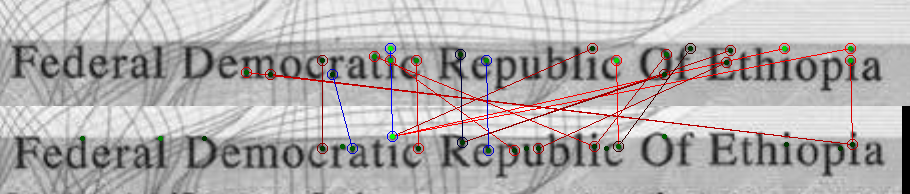
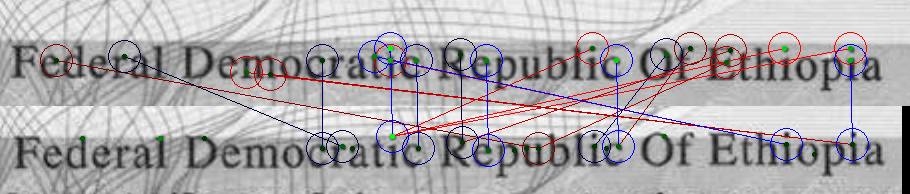
fix: enhance generic fm script

diff --git a/scripts/featureMatching/featureMatchingTest.ts b/scripts/featureMatching/featureMatchingTest.ts
@@ -12,7 +12,7 @@ import {
   getBestKeypointsInRadius,
 } from '../../src/featureMatching';
 import { ImageColorModel, readSync, writeSync } from '../../src';
-import { getBrief } from './getBrief';
+import { getBrief, GetBriefOptions } from './getBrief';
 import { GetColorsOptions } from '../../src/featureMatching/utils/getColors';
 import { getMinMax } from '../../src/utils/getMinMax';
 
@@ -20,14 +20,15 @@ import util from 'util';
 import { sliceBrief } from './sliceBrief';
 util.inspect.defaultOptions.depth = 5;
 
-const getBriefOptions = {
-  windowSize: 31,
+const getBriefOptions: GetBriefOptions = {
+  centroidPatchDiameter: 31,
   bestKptRadius: 5,
 };
 
 let source = readSync('../../test/img/featureMatching/crop1.png').convertColor(
   ImageColorModel.GREY,
 );
+// fix contrast
 const sourceExtremums = getMinMax(source);
 source.level({
   inputMin: sourceExtremums.min[0],
@@ -38,6 +39,7 @@ source.level({
 let destination = readSync(
   '../../test/img/featureMatching/crop3.png',
 ).convertColor(ImageColorModel.GREY);
+// fix contrast
 const destinationExtremums = getMinMax(destination);
 destination.level({
   inputMin: destinationExtremums.min[0],
@@ -104,6 +106,7 @@ montage.drawMatches(
   {
     showDistance: true,
     color: [255, 0, 0],
+    circleDiameter: getBriefOptions.centroidPatchDiameter,
     showDistanceOptions,
   },
 );
@@ -115,6 +118,7 @@ montage.drawMatches(
   {
     showDistance: true,
     color: [0, 0, 255],
+    circleDiameter: getBriefOptions.centroidPatchDiameter,
     showDistanceOptions,
   },
 );

diff --git a/scripts/featureMatching/getBrief.ts b/scripts/featureMatching/getBrief.ts
@@ -7,7 +7,7 @@ import {
 import { getOrientedFastKeypoints } from '../../src/featureMatching/keypoints/getOrientedFastKeypoints';
 
 export interface GetBriefOptions {
-  windowSize?: number;
+  centroidPatchDiameter?: number;
   bestKptRadius?: number;
   minScore?: number;
 }
@@ -21,9 +21,9 @@ export interface GetBriefOptions {
  * @returns The Brief.
  */
 export function getBrief(image: Image, options: GetBriefOptions = {}): Brief {
-  const { windowSize = 15, bestKptRadius = 10, minScore } = options;
+  const { centroidPatchDiameter = 15, bestKptRadius = 10, minScore } = options;
   const allSourceKeypoints = getOrientedFastKeypoints(image, {
-    windowSize,
+    centroidPatchDiameter,
   });
   let sourceKeypoints = getBestKeypointsInRadius(
     allSourceKeypoints,
